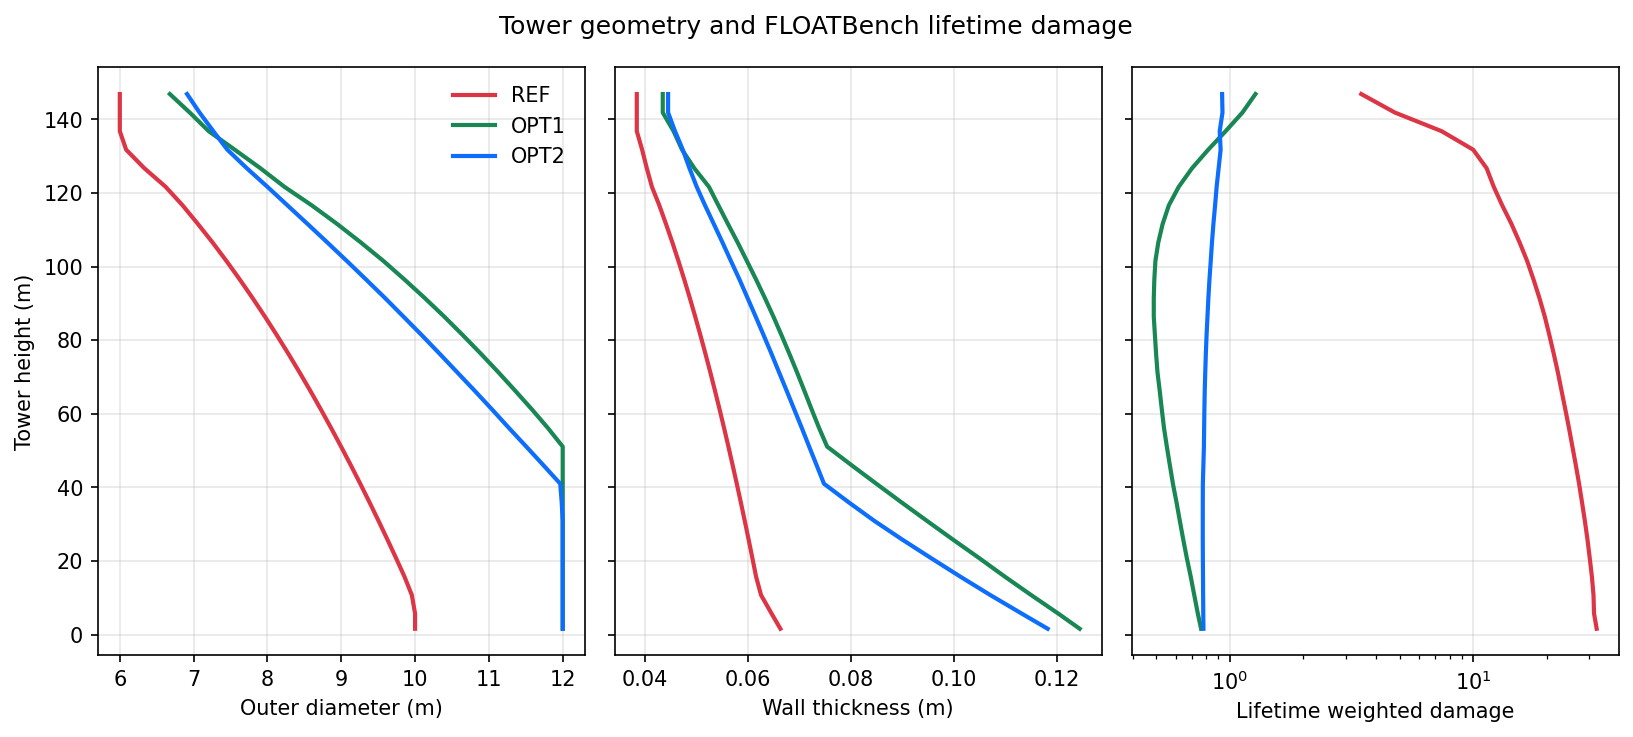
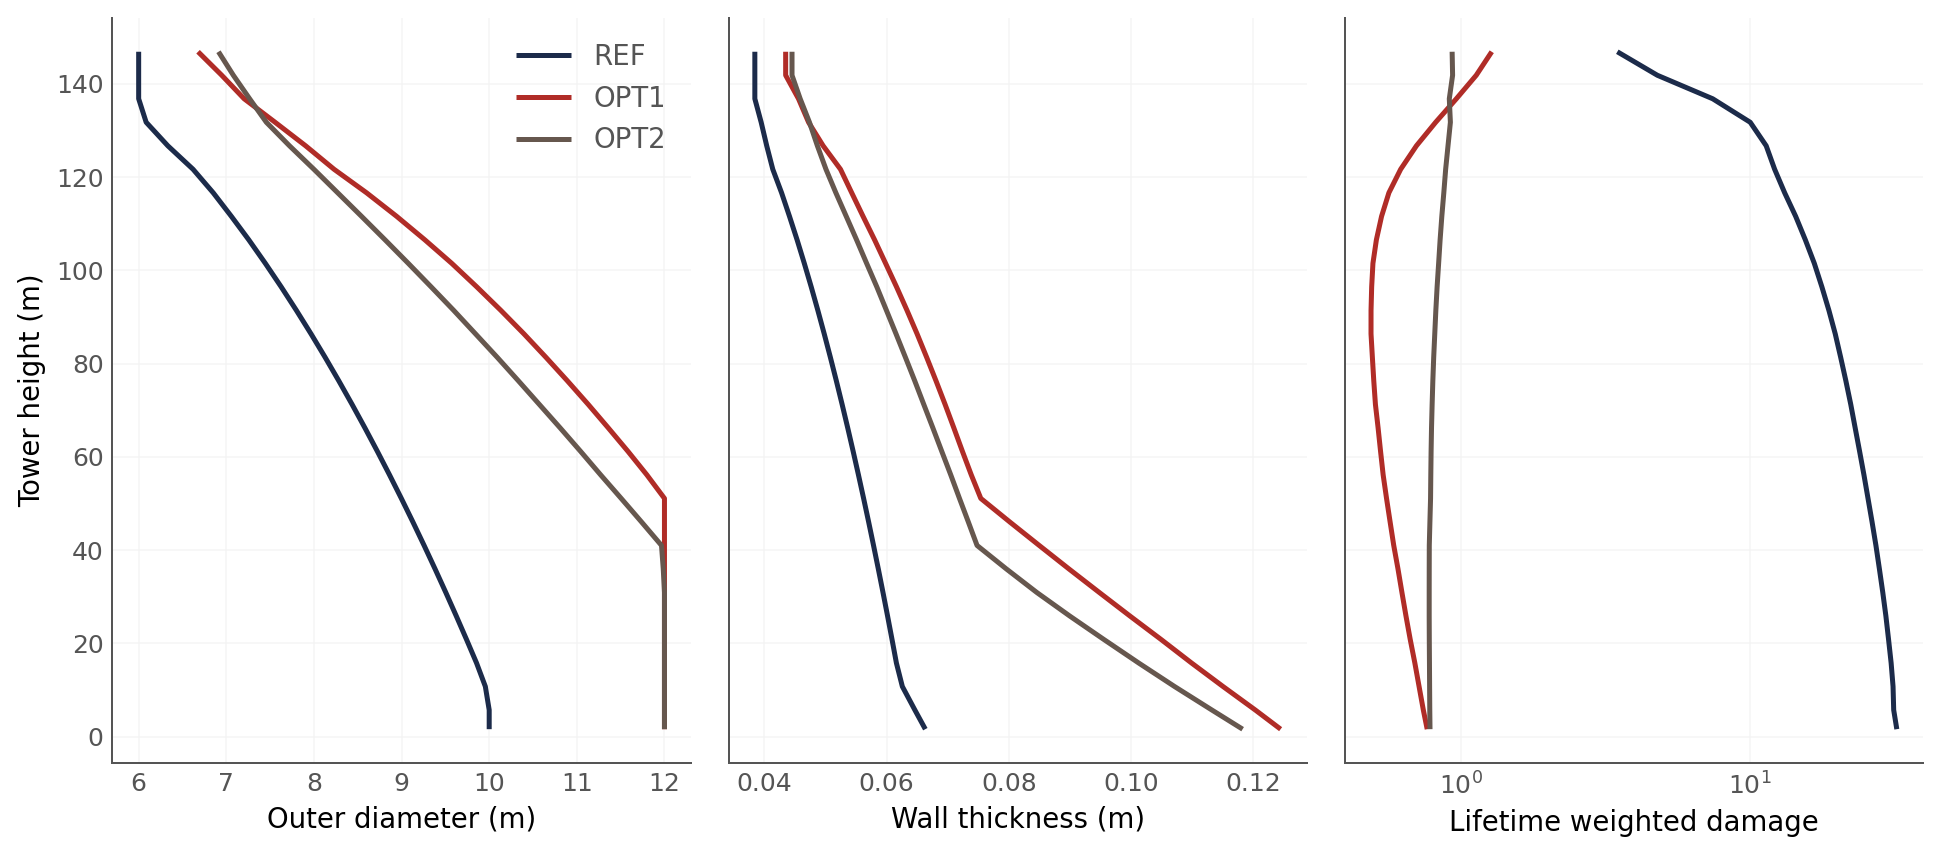
examples: figure_geom_damage uses paper colors (REF blue / OPT1 red / OPT2 brown) and paper-style aesthetics

diff --git a/examples/figure_geom_damage.py b/examples/figure_geom_damage.py
@@ -20,6 +20,8 @@ import matplotlib.pyplot as plt
 import pandas as pd
 from absl import app, flags, logging
 
+from floatbench.colors import COLORS_DICT
+
 FLAGS = flags.FLAGS
 
 flags.DEFINE_string("data_root", "data",
@@ -32,9 +34,9 @@ flags.DEFINE_string("output", "figure_geom_damage.png",
 
 TOWERS = ("ref", "opt1", "opt2")
 TOWER_COLORS = {
-    "ref": "#dc3545",  # red
-    "opt1": "#198754",  # green
-    "opt2": "#0d6efd",  # blue
+    "ref": COLORS_DICT["dark_blue_paper"],
+    "opt1": COLORS_DICT["red_paper"],
+    "opt2": COLORS_DICT["brown_paper"],
 }
 
 
@@ -80,19 +82,33 @@ def plot_figure(summaries, out_path):
         ("thickness_m", "Wall thickness (m)"),
         ("lifetime_damage", "Lifetime weighted damage"),
     )
+    grid_color = COLORS_DICT["light_gray_paper"]
+    spine_color = COLORS_DICT["dark_gray_paper"]
     for ax, (col, xlabel) in zip(axes, panels):
         for tower, df in summaries.items():
-            ax.plot(df[col], df["height_m"], color=TOWER_COLORS[tower],
-                    lw=2, label=tower.upper())
-        ax.set_xlabel(xlabel)
-        ax.grid(True, alpha=0.3)
+            ax.plot(df[col],
+                    df["height_m"],
+                    color=TOWER_COLORS[tower],
+                    lw=2.0,
+                    label=tower.upper())
+        ax.set_xlabel(xlabel, fontsize=11)
+        ax.grid(True, color=grid_color, linewidth=0.6, alpha=0.8)
+        ax.set_axisbelow(True)
+        for side in ("top", "right"):
+            ax.spines[side].set_visible(False)
+        for side in ("left", "bottom"):
+            ax.spines[side].set_color(spine_color)
+            ax.spines[side].set_linewidth(0.8)
+        ax.tick_params(colors=spine_color, labelsize=10)
     axes[2].set_xscale("log")
-    axes[0].set_ylabel("Tower height (m)")
-    axes[0].legend(loc="best", frameon=False)
-    fig.suptitle("Tower geometry and FLOATBench lifetime damage",
-                 fontsize=12)
+    axes[0].set_ylabel("Tower height (m)", fontsize=11)
+    axes[0].legend(loc="best",
+                   frameon=False,
+                   fontsize=11,
+                   labelcolor=spine_color)
     fig.tight_layout()
-    fig.savefig(out_path, dpi=150, bbox_inches="tight")
+    fig.savefig(out_path, dpi=180, bbox_inches="tight",
+                facecolor="none", transparent=True)
     logging.info("Figure saved to %s", out_path)
 
 